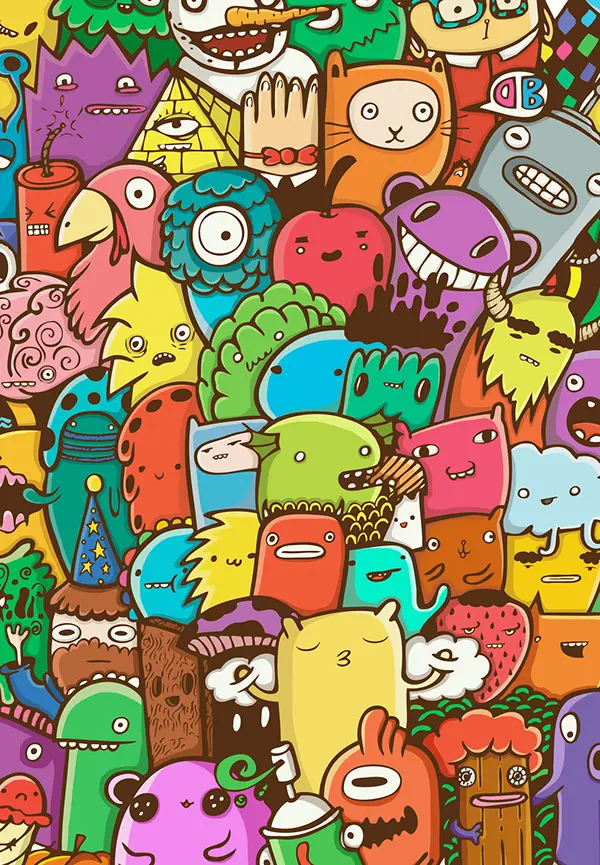
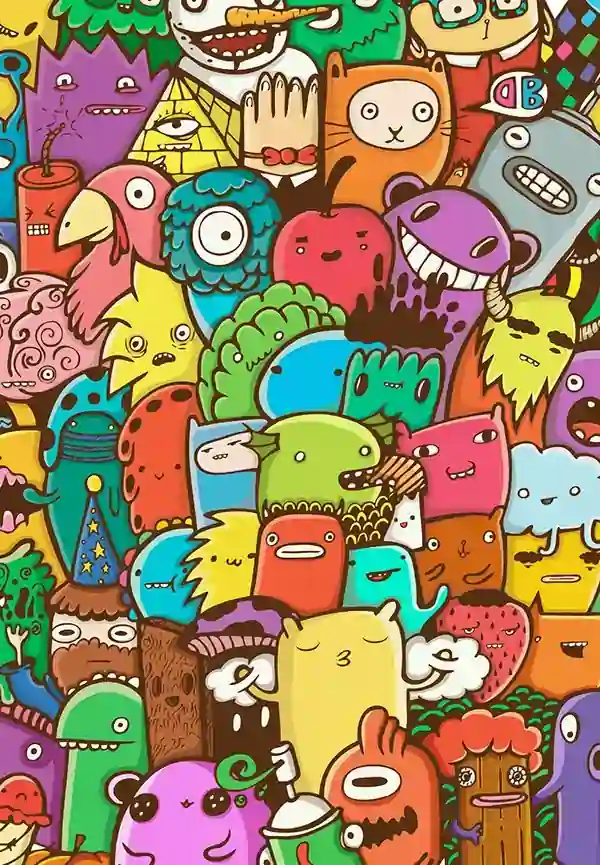
chore(image) : compress images to reduce file size and improve load times

diff --git a/src/components/AvatarList.js b/src/components/AvatarList.js
@@ -12,11 +12,11 @@ function AvatarList() {
   const [selectedAvatar, setSelectedAvatar] = useState(data.avatar);
 
   const avatarList = [
-    { name: "luffy", url: "/img/luffy.png" },
-    { name: "zoro", url: "/img/zoro.png" },
-    { name: "sanchi", url: "/img/sanchi.png" },
-    { name: "brook", url: "/img/brook.png" },
-    { name: "none", url: "/img/user.jpg" },
+    { name: "luffy", url: "/img/luffy.webp" },
+    { name: "zoro", url: "/img/zoro.webp" },
+    { name: "sanchi", url: "/img/sanchi.webp" },
+    { name: "brook", url: "/img/brook.webp" },
+    { name: "none", url: "/img/user.webp" },
   ];
 
   const renderAvatarList = avatarList.map((avatar, key) => {

diff --git a/src/components/common/Avatar.js b/src/components/common/Avatar.js
@@ -3,11 +3,11 @@ import { twMerge } from "tailwind-merge";
 
 function Avatar({ currentAvatar, className, ...rest }) {
   const avatar = {
-    none: "/img/user.jpg",
-    luffy: "/img/luffy.png",
-    brook: "/img/brook.png",
-    sanchi: "/img/sanchi.png",
-    zoro: "/img/zoro.png",
+    none: "/img/user.webp",
+    luffy: "/img/luffy.webp",
+    brook: "/img/brook.webp",
+    sanchi: "/img/sanchi.webp",
+    zoro: "/img/zoro.webp",
   };
   return (
     <img
